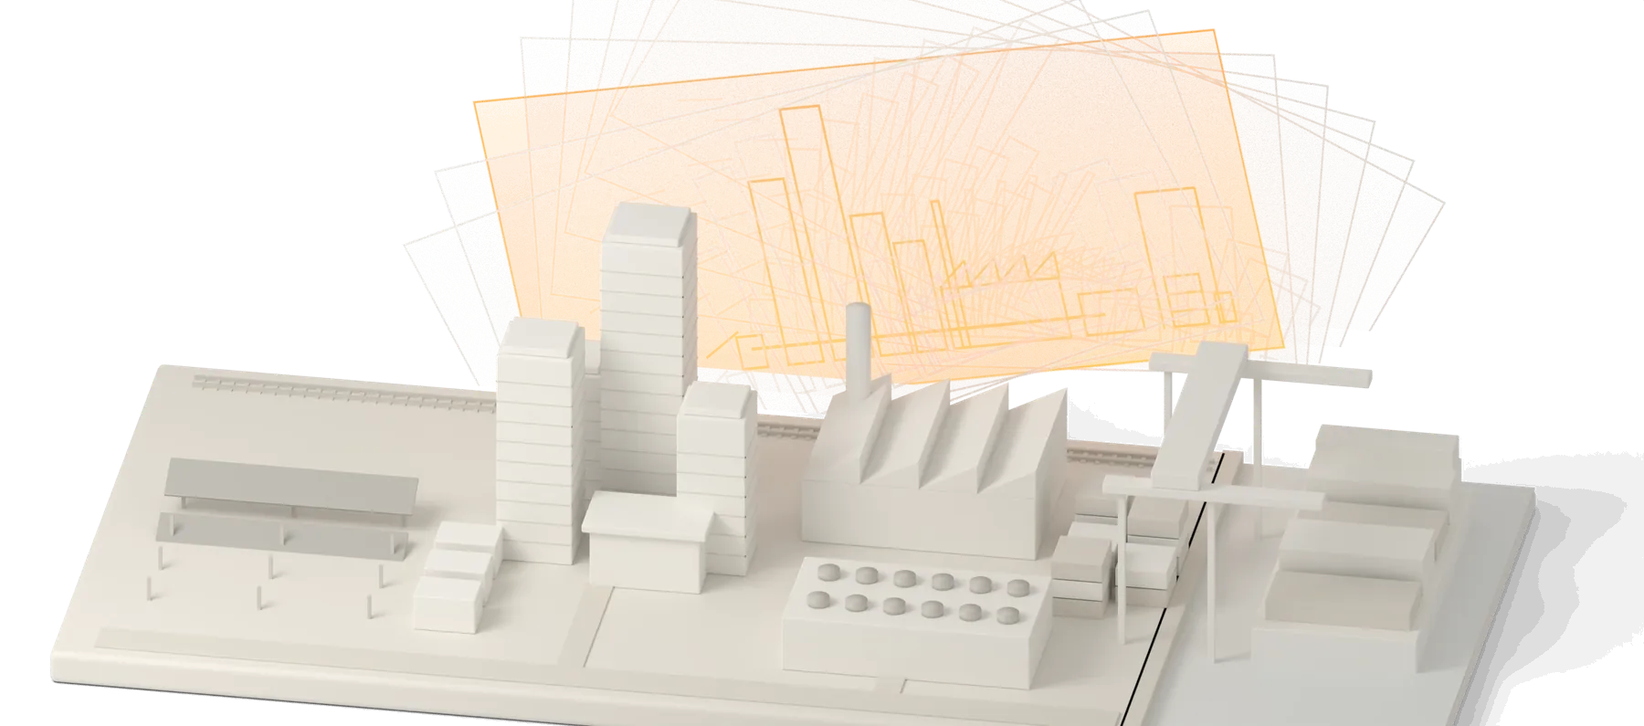
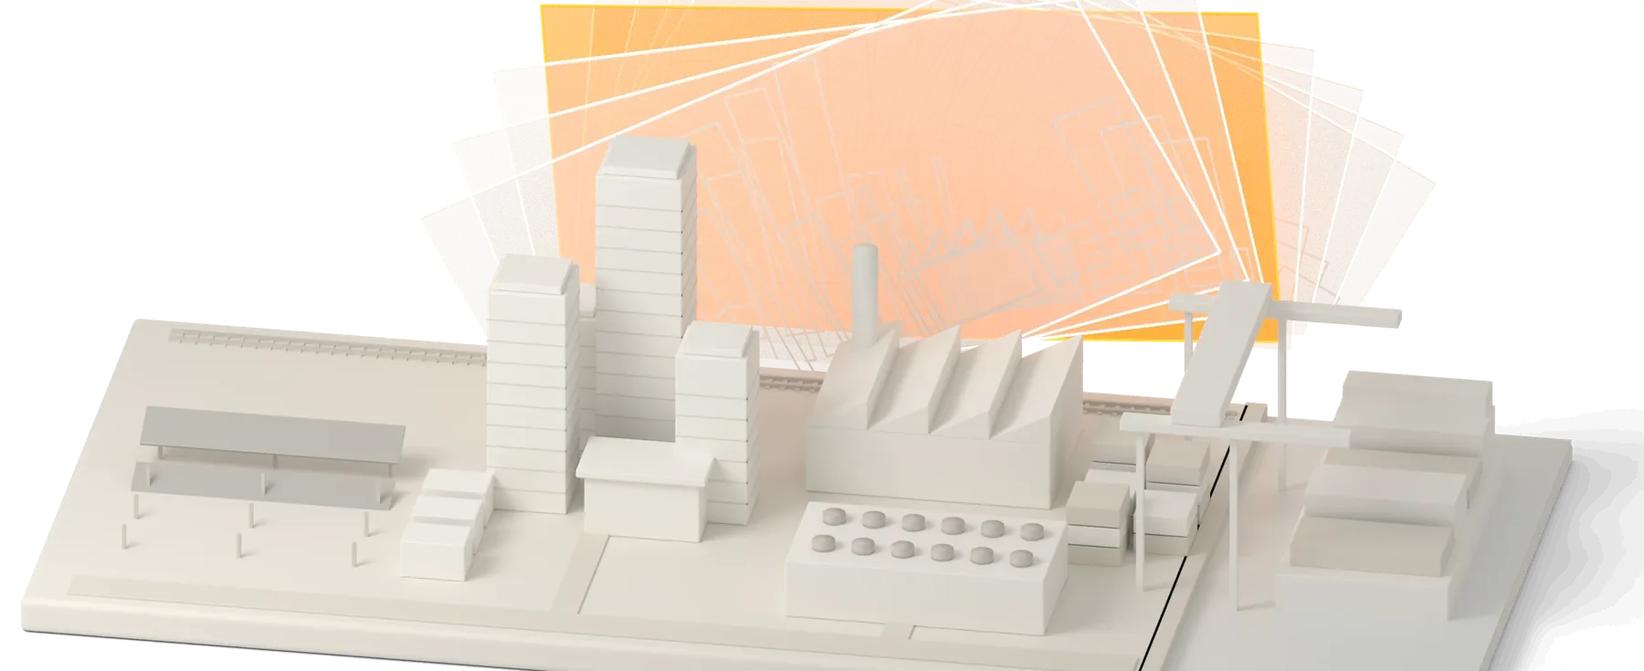
Refinements v2.1: legible futures, one orange bar, a tidy network
The hero's futures now read. The slices are clearly frosted, at roughly
30–40% with lit edges, and are etched with the world in grey. The lit
future is an upright card in the middle of the deck, warm and
unmistakable at rest. The fan is lower and sits behind the model, below
the buttons, and the hero still fits 1440×900 and 1512×788.

Only the console keeps the orange title bar. The mission, trust and
manifesto windows have a hairline top edge with ■■. The chips centre
over centred headlines.

The network is redrawn. Partner banks sit evenly on one arc with
straight radial lines, and every label clears the edges. In Discovery
the fund grows and turns warm, two banks shrink with their old size
ghosted, one bank grows, and a new lit route appears. The rail carries
the two numbers in Futures and the policy in Discovery.

The domain cards share rows through subgrid, so the question lists and
bottom rules align, and the Reserves route is raised and lit like the
others. Compare shows two etched futures, one brighter. The band above
the footer is halved.

Claude-Session: https://claude.ai/code/session_01KJTweMhfZWuWexSYwMJPUu

diff --git a/index.html b/index.html
@@ -71,7 +71,7 @@
         <div class="deck__stage" data-deck-stage>
           <picture class="deck__still">
             <source media="(max-width: 759px)" srcset="/deck-rest-narrow.webp" />
-            <img src="/deck-rest-wide.webp" width="2400" height="1060" alt="" decoding="async" fetchpriority="high" />
+            <img src="/deck-rest-wide.webp" width="2400" height="980" alt="" decoding="async" fetchpriority="high" />
           </picture>
           <canvas class="deck__fx" aria-hidden="true"></canvas>
         </div>
@@ -148,20 +148,22 @@
                     <p class="cons__line" data-line="model">Every account, route and partner, and the hours each one keeps.</p>
                     <p class="cons__line" data-line="futures" hidden>A year and a half of real days, replayed in minutes, and the year ahead.</p>
                     <p class="cons__line" data-line="discovery" hidden>The placement that keeps every promise with the least cash idle.</p>
+                    <p class="cons__nums" data-line="futures" hidden><span><b>99.7% → 100%</b>Promises kept</span><span><b>−$1.7B</b>Cash idle</span></p>
+                    <p class="cons__prop" data-line="discovery" hidden>Hold cash where redemptions arrive, by the hour of the week, and keep the rest in the fund.</p>
                   </div>
                   <div class="cons__pane" id="st-pane" role="tabpanel" aria-labelledby="st-model">
                     <p class="cons__scen" data-only="futures" hidden><button type="button" class="is-on" data-scen="typical">Typical week</button><button type="button" data-scen="weekends">Weekends</button><button type="button" data-scen="partner">A partner doubles</button><button type="button" data-scen="rates">Rates fall</button></p>
                     <div class="cons__map">
-                      <svg class="nw" viewBox="0 0 820 500" role="img" aria-label="The network behind a digital dollar: the issuer at the center; a money-market fund, a custodian, overnight repo and a ring of partner banks on the reserve side, four of them open at any hour; exchanges, wallets, payment networks and fintech apps on the distribution side; holders below."><g class="nw-holders"><circle cx="668.0" cy="458.1" r="1.77"/><circle cx="779.9" cy="452.3" r="1.91"/><circle cx="460.2" cy="450.2" r="1.94"/><circle cx="677.1" cy="468.1" r="1.02"/><circle cx="614.2" cy="428.1" r="1.50"/><circle cx="650.9" cy="410.8" r="1.14"/><circle cx="547.8" cy="475.6" r="1.74"/><circle cx="505.9" cy="469.8" r="1.05"/><circle cx="666.1" cy="417.6" r="0.90"/><circle cx="755.0" cy="418.6" r="1.14"/><circle cx="793.8" cy="460.4" r="1.22"/><circle cx="786.5" cy="438.8" r="1.65"/><circle cx="521.7" cy="478.5" r="1.66"/><circle cx="788.3" cy="462.1" r="1.23"/><circle cx="576.4" cy="424.6" r="1.06"/><circle cx="472.8" cy="438.7" r="1.56"/><circle cx="451.2" cy="464.7" r="1.27"/><circle cx="558.5" cy="468.6" r="1.43"/><circle cx="560.5" cy="446.2" r="1.68"/><circle cx="470.0" cy="483.4" r="0.93"/><circle cx="712.4" cy="462.6" r="0.92"/><circle cx="725.7" cy="430.4" r="1.54"/><circle cx="453.2" cy="422.9" r="1.10"/><circle cx="784.3" cy="416.3" r="1.73"/><circle cx="775.4" cy="465.9" r="1.28"/><circle cx="574.2" cy="448.4" r="1.75"/><circle cx="487.8" cy="467.5" r="1.78"/><circle cx="750.9" cy="407.4" r="1.94"/><circle cx="481.9" cy="440.9" r="1.57"/><circle cx="771.3" cy="426.4" r="1.92"/><circle cx="640.8" cy="431.1" r="1.25"/><circle cx="512.1" cy="422.1" r="1.06"/><circle cx="691.2" cy="473.7" r="1.08"/><circle cx="467.0" cy="484.3" r="1.49"/><circle cx="592.1" cy="428.6" r="1.55"/><circle cx="739.2" cy="435.6" r="1.36"/><circle cx="469.5" cy="479.5" r="0.94"/><circle cx="622.7" cy="466.7" r="1.04"/><circle cx="706.1" cy="469.9" r="1.59"/><circle cx="725.8" cy="413.2" r="1.38"/><circle cx="502.2" cy="473.1" r="1.22"/><circle cx="608.6" cy="478.0" r="1.84"/><circle cx="791.6" cy="432.9" r="1.44"/><circle cx="705.3" cy="438.9" r="1.22"/><circle cx="591.3" cy="422.6" r="1.31"/><circle cx="795.9" cy="466.1" r="1.59"/><circle cx="624.8" cy="433.6" r="1.00"/><circle cx="545.3" cy="466.8" r="1.85"/><circle cx="576.5" cy="465.6" r="1.75"/><circle cx="693.1" cy="451.7" r="1.74"/><circle cx="577.2" cy="460.1" r="1.21"/><circle cx="620.0" cy="462.3" r="1.66"/><circle cx="552.8" cy="477.3" r="1.61"/><circle cx="653.2" cy="410.6" r="1.50"/><circle cx="537.7" cy="459.9" r="1.41"/><circle cx="735.8" cy="448.4" r="1.78"/><circle cx="571.8" cy="456.4" r="1.71"/><circle cx="739.9" cy="428.6" r="1.83"/><circle cx="754.5" cy="450.2" r="1.97"/><circle cx="784.8" cy="437.5" r="1.48"/><circle cx="508.2" cy="472.3" r="1.93"/><circle cx="617.0" cy="457.3" r="1.69"/><circle cx="705.6" cy="418.6" r="1.76"/><circle cx="653.3" cy="453.8" r="1.36"/><circle cx="668.3" cy="460.2" r="1.60"/><circle cx="702.1" cy="409.2" r="1.08"/><circle cx="604.4" cy="455.2" r="1.14"/><circle cx="690.1" cy="449.6" r="0.95"/><circle cx="615.1" cy="426.7" r="0.96"/><circle cx="496.7" cy="438.6" r="1.10"/><circle cx="517.7" cy="419.0" r="1.41"/><circle cx="583.1" cy="453.7" r="1.55"/><circle cx="533.2" cy="475.4" r="0.90"/><circle cx="591.9" cy="431.3" r="1.35"/><circle cx="490.3" cy="472.9" r="1.31"/><circle cx="462.6" cy="459.9" r="1.00"/><circle cx="640.8" cy="432.9" r="1.54"/><circle cx="785.4" cy="457.3" r="1.36"/><circle cx="734.5" cy="448.2" r="1.31"/><circle cx="499.7" cy="456.8" r="1.52"/><circle cx="785.0" cy="467.1" r="1.57"/><circle cx="572.9" cy="472.8" r="0.90"/><circle cx="487.8" cy="455.5" r="1.58"/><circle cx="499.2" cy="459.1" r="1.88"/><circle cx="581.5" cy="441.9" r="1.15"/><circle cx="552.0" cy="479.1" r="1.32"/><circle cx="786.4" cy="463.5" r="1.56"/><circle cx="540.9" cy="480.2" r="1.45"/><circle cx="595.4" cy="433.8" r="1.98"/><circle cx="622.1" cy="430.3" r="1.42"/><circle cx="492.7" cy="458.9" r="1.39"/><circle cx="552.6" cy="466.5" r="1.81"/><circle cx="454.6" cy="454.9" r="1.20"/><circle cx="777.3" cy="455.2" r="1.17"/><circle cx="543.7" cy="425.5" r="1.99"/><circle cx="552.6" cy="455.0" r="1.42"/><circle cx="675.7" cy="448.6" r="1.72"/><circle cx="491.4" cy="468.1" r="1.23"/><circle cx="636.7" cy="432.8" r="1.23"/><circle cx="635.5" cy="441.4" r="1.30"/><circle cx="710.8" cy="446.0" r="0.94"/><circle cx="538.3" cy="445.7" r="1.91"/><circle cx="760.8" cy="440.5" r="0.92"/><circle cx="722.4" cy="434.6" r="1.53"/><circle cx="697.9" cy="449.3" r="1.43"/><circle cx="769.1" cy="429.5" r="1.33"/><circle cx="748.2" cy="418.1" r="1.23"/><circle cx="740.5" cy="409.8" r="1.82"/><circle cx="693.1" cy="436.4" r="1.21"/><circle cx="723.3" cy="466.4" r="1.06"/><circle cx="617.4" cy="447.9" r="1.45"/><circle cx="565.8" cy="424.3" r="1.54"/><circle cx="734.1" cy="410.3" r="1.15"/><circle cx="736.9" cy="457.9" r="1.63"/><circle cx="458.9" cy="467.2" r="1.98"/><circle cx="799.4" cy="448.8" r="0.95"/><circle cx="744.7" cy="419.7" r="1.61"/><circle cx="783.3" cy="450.4" r="1.05"/><circle cx="552.4" cy="475.5" r="1.06"/><circle cx="663.7" cy="436.6" r="1.08"/><circle cx="667.8" cy="412.0" r="1.02"/><circle cx="582.7" cy="418.1" r="0.96"/><circle cx="651.3" cy="458.9" r="1.87"/><circle cx="497.0" cy="446.1" r="1.25"/><circle cx="660.1" cy="441.8" r="1.93"/><circle cx="581.0" cy="417.1" r="1.67"/><circle cx="502.9" cy="459.0" r="1.46"/><circle cx="768.6" cy="440.7" r="1.58"/><circle cx="542.1" cy="451.8" r="1.18"/><circle cx="712.7" cy="441.0" r="1.05"/><circle cx="532.0" cy="440.4" r="1.71"/><circle cx="512.8" cy="463.9" r="1.62"/><circle cx="479.8" cy="462.6" r="1.00"/><circle cx="493.7" cy="457.0" r="1.16"/><circle cx="756.9" cy="436.4" r="1.26"/><circle cx="728.8" cy="408.0" r="1.70"/><circle cx="468.8" cy="429.0" r="1.95"/><circle cx="688.4" cy="422.8" r="1.03"/><circle cx="790.4" cy="446.9" r="1.80"/><circle cx="498.9" cy="458.8" r="1.29"/><circle cx="532.3" cy="437.9" r="1.58"/><circle cx="572.0" cy="439.4" r="1.05"/><circle cx="740.9" cy="448.2" r="1.78"/><circle cx="601.7" cy="468.6" r="1.47"/><circle cx="657.4" cy="447.5" r="1.71"/><circle cx="588.4" cy="419.5" r="0.94"/><circle cx="520.8" cy="419.1" r="1.88"/><circle cx="618.3" cy="461.8" r="0.90"/><circle cx="614.6" cy="470.5" r="1.58"/><circle cx="600.0" cy="443.2" r="1.01"/><circle cx="504.1" cy="427.8" r="1.31"/><circle cx="585.0" cy="471.4" r="1.07"/><circle cx="538.9" cy="433.9" r="1.08"/><circle cx="550.5" cy="430.5" r="1.43"/><circle cx="461.2" cy="480.5" r="1.31"/><circle cx="778.3" cy="449.0" r="1.64"/><circle cx="615.1" cy="474.1" r="1.03"/><circle cx="684.0" cy="427.5" r="1.64"/><circle cx="705.3" cy="418.0" r="1.12"/><circle cx="458.7" cy="434.8" r="0.99"/><circle cx="590.4" cy="477.2" r="1.30"/><circle cx="559.1" cy="445.4" r="1.21"/><circle cx="706.3" cy="454.6" r="1.08"/><circle cx="534.2" cy="460.2" r="1.93"/><circle cx="676.1" cy="437.1" r="1.97"/><circle cx="452.2" cy="423.9" r="1.76"/><circle cx="593.6" cy="415.8" r="1.50"/><circle cx="796.4" cy="436.9" r="1.29"/><circle cx="482.8" cy="423.1" r="1.89"/><circle cx="621.9" cy="473.2" r="0.96"/><circle cx="535.2" cy="419.1" r="1.34"/><circle cx="471.0" cy="435.8" r="1.35"/><circle cx="557.1" cy="418.0" r="0.94"/><circle cx="790.1" cy="414.8" r="1.46"/><circle cx="590.8" cy="448.0" r="0.99"/><circle cx="559.9" cy="421.6" r="1.50"/><circle cx="772.5" cy="443.4" r="1.84"/><circle cx="525.0" cy="417.4" r="1.49"/><circle cx="620.3" cy="449.2" r="1.31"/><circle cx="668.8" cy="457.0" r="1.90"/><circle cx="557.7" cy="444.3" r="1.81"/><circle cx="528.4" cy="423.7" r="1.24"/><circle cx="480.7" cy="469.4" r="1.80"/><circle cx="559.5" cy="423.1" r="0.99"/><circle cx="535.7" cy="421.3" r="1.37"/><circle cx="651.9" cy="426.1" r="0.97"/><circle cx="695.2" cy="410.9" r="1.12"/><circle cx="550.1" cy="439.7" r="1.01"/><circle cx="597.2" cy="433.4" r="1.73"/><circle cx="644.6" cy="469.4" r="1.62"/><circle cx="715.9" cy="444.6" r="1.39"/><circle cx="735.9" cy="449.0" r="1.95"/><circle cx="704.8" cy="453.5" r="1.19"/><circle cx="734.2" cy="431.0" r="1.04"/><circle cx="473.1" cy="430.0" r="1.19"/><circle cx="686.6" cy="427.0" r="0.97"/><circle cx="717.3" cy="443.4" r="0.93"/><circle cx="467.7" cy="427.7" r="1.29"/><circle cx="750.9" cy="467.6" r="1.57"/><circle cx="530.9" cy="444.3" r="1.30"/><circle cx="565.6" cy="415.0" r="1.54"/><circle cx="739.4" cy="453.5" r="1.00"/><circle cx="635.6" cy="422.0" r="1.68"/><circle cx="606.2" cy="474.1" r="1.77"/><circle cx="491.4" cy="438.9" r="1.91"/><circle cx="611.3" cy="440.6" r="1.39"/><circle cx="718.6" cy="468.4" r="1.49"/><circle cx="789.4" cy="442.4" r="1.01"/><circle cx="735.0" cy="433.4" r="0.96"/><circle cx="792.3" cy="405.1" r="1.53"/><circle cx="618.7" cy="469.8" r="1.33"/><circle cx="525.5" cy="434.5" r="1.12"/><circle cx="646.9" cy="433.7" r="1.73"/><circle cx="534.5" cy="439.0" r="1.17"/><circle cx="793.8" cy="458.3" r="1.83"/><circle cx="666.4" cy="435.6" r="1.06"/><circle cx="741.1" cy="437.8" r="0.94"/><circle cx="509.3" cy="423.5" r="1.69"/><circle cx="765.1" cy="417.4" r="1.78"/><circle cx="563.4" cy="459.4" r="1.85"/><circle cx="668.1" cy="461.9" r="1.31"/><circle cx="453.5" cy="453.6" r="1.55"/><circle cx="514.7" cy="442.4" r="1.25"/><circle cx="459.5" cy="440.1" r="1.32"/><circle cx="616.6" cy="458.1" r="1.34"/><circle cx="793.8" cy="456.6" r="1.92"/><circle cx="692.5" cy="452.1" r="1.49"/><circle cx="729.5" cy="430.0" r="1.55"/><circle cx="687.8" cy="442.6" r="1.21"/><circle cx="477.2" cy="424.4" r="1.29"/><circle cx="653.1" cy="460.0" r="1.69"/><circle cx="557.4" cy="476.0" r="1.20"/><circle cx="700.6" cy="412.2" r="1.73"/><circle cx="684.5" cy="471.4" r="1.89"/><circle cx="690.7" cy="463.3" r="1.71"/><circle cx="663.8" cy="423.1" r="1.47"/><circle cx="763.6" cy="420.1" r="1.97"/><circle cx="640.4" cy="436.4" r="0.90"/><circle cx="586.6" cy="424.9" r="1.62"/><circle cx="764.8" cy="464.3" r="1.57"/></g><g class="nw-edges"><path class="nw-e nw-e--rail" data-e="fc" d="M150.0 150.0Q198.0 98.8 262.0 70.0"/><path class="nw-e nw-e--rail" data-e="ci" d="M262.0 70.0Q353.4 124.7 410.0 215.0"/><path class="nw-e nw-e--rail" data-e="ri" d="M280.0 312.0Q354.7 276.5 410.0 215.0"/><path class="nw-e nw-e--rail" data-e="fr" d="M150.0 150.0Q195.6 246.6 280.0 312.0"/><path class="nw-e nw-e--rt" data-e="b1" d="M191.0 301.0Q309.1 279.9 410.0 215.0"/><path class="nw-e nw-e--rt" data-e="b2" d="M229.2 350.8Q333.2 301.0 410.0 215.0"/><path class="nw-e nw-e--rt" data-e="b3" d="M221.0 413.0Q335.3 332.9 410.0 215.0"/><path class="nw-e nw-e--rt" data-e="b4" d="M171.2 451.2Q314.2 357.0 410.0 215.0"/><path class="nw-e nw-e--rail" data-e="b5" d="M109.0 443.0Q282.3 359.1 410.0 215.0"/><path class="nw-e nw-e--rail" data-e="b6" d="M70.8 393.2Q258.2 338.0 410.0 215.0"/><path class="nw-e nw-e--rail" data-e="b7" d="M79.0 331.0Q256.1 306.1 410.0 215.0"/><path class="nw-e nw-e--rail" data-e="b8" d="M128.8 292.8Q277.2 282.0 410.0 215.0"/><path class="nw-e nw-e--rt nw-e--new" data-e="b9" d="M260.6 320.4Q345.8 282.7 410.0 215.0"/><path class="nw-e nw-e--chain" data-e="exch" d="M410.0 215.0Q542.6 191.3 650.0 110.0"/><path class="nw-e nw-e--chain" data-e="wallets" d="M410.0 215.0Q559.4 257.7 712.0 228.0"/><path class="nw-e nw-e--chain" data-e="nets" d="M410.0 215.0Q518.1 304.4 655.0 335.0"/><path class="nw-e nw-e--chain" data-e="apps" d="M410.0 215.0Q497.8 153.1 548.0 58.0"/><path class="nw-e nw-e--chain" data-e="h-nets" d="M655.0 335.0Q616.1 375.9 600.0 430.0"/><path class="nw-e nw-e--chain" data-e="h-wallets" d="M712.0 228.0Q692.4 327.5 720.0 425.0"/><path class="nw-e nw-e--chain" data-e="h-exch" d="M650.0 110.0Q546.8 253.4 520.0 428.0"/></g><g class="nw-pulses" data-pulses></g><g class="nw-nodes"><g class="nw-n nw-n--ink" data-n="issuer"><circle class="nw-ring" cx="410.0" cy="215.0" r="21.0"/><circle class="nw-c" cx="410.0" cy="215.0" r="15.0" style="--r:15.0px"/><text class="nw-l" x="433" y="219">Issuer</text></g><g class="nw-n nw-n--cash" data-n="fund"><circle class="nw-ring" cx="150.0" cy="150.0" r="52.0"/><circle class="nw-c" cx="150.0" cy="150.0" r="46.0" style="--r:46.0px"/><text class="nw-l" x="150" y="214" text-anchor="middle">Money-market fund</text></g><g class="nw-n nw-n--cash" data-n="custodian"><circle class="nw-ring" cx="262.0" cy="70.0" r="14.0"/><circle class="nw-c" cx="262.0" cy="70.0" r="8.0" style="--r:8.0px"/><text class="nw-l" x="278" y="74">Custodian</text></g><g class="nw-n nw-n--cash" data-n="repo"><circle class="nw-ring" cx="280.0" cy="312.0" r="19.0"/><circle class="nw-c" cx="280.0" cy="312.0" r="13.0" style="--r:13.0px"/><text class="nw-l" x="301" y="316">Overnight repo</text></g><g class="nw-n nw-n--dist" data-n="exch"><circle class="nw-ring" cx="650.0" cy="110.0" r="28.0"/><circle class="nw-c" cx="650.0" cy="110.0" r="22.0" style="--r:22.0px"/><text class="nw-l" x="680" y="114">Exchanges</text></g><g class="nw-n nw-n--dist" data-n="wallets"><circle class="nw-ring" cx="712.0" cy="228.0" r="23.0"/><circle class="nw-c" cx="712.0" cy="228.0" r="17.0" style="--r:17.0px"/><text class="nw-l" x="737" y="232">Wallets</text></g><g class="nw-n nw-n--dist" data-n="nets"><circle class="nw-ring" cx="655.0" cy="335.0" r="26.0"/><circle class="nw-c" cx="655.0" cy="335.0" r="20.0" style="--r:20.0px"/><text class="nw-l" x="683" y="339">Payment networks</text></g><g class="nw-n nw-n--dist" data-n="apps"><circle class="nw-ring" cx="548.0" cy="58.0" r="19.0"/><circle class="nw-c" cx="548.0" cy="58.0" r="13.0" style="--r:13.0px"/><text class="nw-l" x="569" y="62">Fintech apps</text></g><g class="nw-n nw-n--bank nw-n--lit" data-n="b1"><circle class="nw-ring" cx="191.0" cy="301.0" r="17.0"/><circle class="nw-c" cx="191.0" cy="301.0" r="11.0" style="--r:11.0px"/></g><g class="nw-n nw-n--bank nw-n--lit" data-n="b2"><circle class="nw-ring" cx="229.2" cy="350.8" r="16.0"/><circle class="nw-c" cx="229.2" cy="350.8" r="10.0" style="--r:10.0px"/></g><g class="nw-n nw-n--bank nw-n--lit" data-n="b3"><circle class="nw-ring" cx="221.0" cy="413.0" r="15.0"/><circle class="nw-c" cx="221.0" cy="413.0" r="9.0" style="--r:9.0px"/></g><g class="nw-n nw-n--bank nw-n--lit" data-n="b4"><circle class="nw-ring" cx="171.2" cy="451.2" r="15.0"/><circle class="nw-c" cx="171.2" cy="451.2" r="9.0" style="--r:9.0px"/></g><g class="nw-n nw-n--bank" data-n="b5"><circle class="nw-ring" cx="109.0" cy="443.0" r="14.0"/><circle class="nw-c" cx="109.0" cy="443.0" r="7.0" style="--r:7.0px"/></g><g class="nw-n nw-n--bank" data-n="b6"><circle class="nw-ring" cx="70.8" cy="393.2" r="14.0"/><circle class="nw-c" cx="70.8" cy="393.2" r="6.0" style="--r:6.0px"/></g><g class="nw-n nw-n--bank" data-n="b7"><circle class="nw-ring" cx="79.0" cy="331.0" r="14.0"/><circle class="nw-c" cx="79.0" cy="331.0" r="6.0" style="--r:6.0px"/></g><g class="nw-n nw-n--bank" data-n="b8"><circle class="nw-ring" cx="128.8" cy="292.8" r="14.0"/><circle class="nw-c" cx="128.8" cy="292.8" r="7.0" style="--r:7.0px"/></g><g class="nw-n nw-n--bank nw-n--lit nw-n--new" data-n="b9"><circle class="nw-ring" cx="260.6" cy="320.4" r="14.0"/><circle class="nw-c" cx="260.6" cy="320.4" r="0.0" style="--r:0.0px"/></g><text class="nw-l" x="150" y="376" text-anchor="middle">Partner banks</text></g></svg>
+                      <svg class="nw" viewBox="0 0 820 500" role="img" aria-label="The network behind a digital dollar: the issuer at the center; a money-market fund, a custodian and overnight repo on the reserve side; an arc of partner banks below, four of them open at any hour; exchanges, wallets, payment networks and fintech apps on the distribution side; holders below."><g class="nw-holders"><circle cx="683.1" cy="464.8" r="1.77"/><circle cx="782.2" cy="460.7" r="1.91"/><circle cx="499.0" cy="455.6" r="1.94"/><circle cx="691.2" cy="474.0" r="1.02"/><circle cx="635.4" cy="437.0" r="1.50"/><circle cx="667.9" cy="421.7" r="1.14"/><circle cx="576.6" cy="479.5" r="1.74"/><circle cx="539.5" cy="473.8" r="1.05"/><circle cx="681.4" cy="427.9" r="0.90"/><circle cx="760.1" cy="429.8" r="1.14"/><circle cx="794.6" cy="468.2" r="1.22"/><circle cx="788.1" cy="448.4" r="1.65"/><circle cx="553.5" cy="481.9" r="1.66"/><circle cx="789.6" cy="469.6" r="1.23"/><circle cx="602.0" cy="433.5" r="1.06"/><circle cx="510.2" cy="445.3" r="1.56"/><circle cx="491.0" cy="468.6" r="1.27"/><circle cx="586.1" cy="473.3" r="1.43"/><circle cx="587.9" cy="453.0" r="1.68"/><circle cx="507.7" cy="485.8" r="0.93"/><circle cx="722.4" cy="469.4" r="0.92"/><circle cx="734.2" cy="440.2" r="1.54"/><circle cx="492.8" cy="430.7" r="1.10"/><circle cx="786.1" cy="427.9" r="1.73"/><circle cx="778.2" cy="473.0" r="1.28"/><circle cx="600.0" cy="455.1" r="1.75"/><circle cx="523.5" cy="471.6" r="1.78"/><circle cx="756.5" cy="419.5" r="1.94"/><circle cx="518.3" cy="447.3" r="1.57"/><circle cx="774.6" cy="437.0" r="1.92"/><circle cx="659.0" cy="440.0" r="1.25"/><circle cx="545.0" cy="430.5" r="1.06"/><circle cx="703.6" cy="479.3" r="1.08"/><circle cx="505.1" cy="486.6" r="1.49"/><circle cx="615.8" cy="437.2" r="1.55"/><circle cx="746.2" cy="445.1" r="1.36"/><circle cx="507.3" cy="482.3" r="0.94"/><circle cx="643.0" cy="472.2" r="1.04"/><circle cx="716.8" cy="475.9" r="1.59"/><circle cx="734.3" cy="424.6" r="1.38"/><circle cx="536.3" cy="476.8" r="1.22"/><circle cx="630.5" cy="482.3" r="1.84"/><circle cx="792.6" cy="443.1" r="1.44"/><circle cx="716.1" cy="447.7" r="1.22"/><circle cx="615.2" cy="431.8" r="1.31"/><circle cx="796.4" cy="473.3" r="1.59"/><circle cx="644.8" cy="442.1" r="1.00"/><circle cx="574.4" cy="471.5" r="1.85"/><circle cx="602.0" cy="470.7" r="1.75"/><circle cx="705.3" cy="459.2" r="1.74"/><circle cx="602.7" cy="465.8" r="1.21"/><circle cx="640.6" cy="468.2" r="1.66"/><circle cx="581.1" cy="481.1" r="1.61"/><circle cx="670.0" cy="421.5" r="1.50"/><circle cx="567.7" cy="465.2" r="1.41"/><circle cx="743.2" cy="456.7" r="1.78"/><circle cx="597.8" cy="462.3" r="1.71"/><circle cx="746.7" cy="438.7" r="1.83"/><circle cx="759.7" cy="458.5" r="1.97"/><circle cx="786.5" cy="447.2" r="1.48"/><circle cx="541.5" cy="476.1" r="1.93"/><circle cx="637.9" cy="463.6" r="1.69"/><circle cx="716.4" cy="429.3" r="1.76"/><circle cx="670.1" cy="460.7" r="1.36"/><circle cx="683.4" cy="466.7" r="1.60"/><circle cx="713.3" cy="420.7" r="1.08"/><circle cx="626.7" cy="461.5" r="1.14"/><circle cx="702.6" cy="457.3" r="0.95"/><circle cx="636.2" cy="435.7" r="0.96"/><circle cx="531.4" cy="445.4" r="1.10"/><circle cx="549.9" cy="427.7" r="1.41"/><circle cx="607.9" cy="460.0" r="1.55"/><circle cx="563.7" cy="479.2" r="0.90"/><circle cx="615.7" cy="439.7" r="1.35"/><circle cx="525.7" cy="476.5" r="1.31"/><circle cx="501.2" cy="464.4" r="1.00"/><circle cx="659.0" cy="441.6" r="1.54"/><circle cx="787.1" cy="465.2" r="1.36"/><circle cx="742.0" cy="456.5" r="1.31"/><circle cx="534.1" cy="462.0" r="1.52"/><circle cx="786.7" cy="474.2" r="1.57"/><circle cx="598.8" cy="477.3" r="0.90"/><circle cx="523.5" cy="460.6" r="1.58"/><circle cx="533.6" cy="464.0" r="1.88"/><circle cx="606.5" cy="449.2" r="1.15"/><circle cx="580.4" cy="482.7" r="1.32"/><circle cx="788.0" cy="470.9" r="1.56"/><circle cx="570.5" cy="483.6" r="1.45"/><circle cx="618.8" cy="442.0" r="1.98"/><circle cx="642.4" cy="439.1" r="1.42"/><circle cx="527.8" cy="463.8" r="1.39"/><circle cx="580.9" cy="471.3" r="1.81"/><circle cx="494.1" cy="459.8" r="1.20"/><circle cx="779.9" cy="463.3" r="1.17"/><circle cx="573.0" cy="434.0" r="1.99"/><circle cx="580.9" cy="460.8" r="1.42"/><circle cx="689.9" cy="456.2" r="1.72"/><circle cx="526.6" cy="472.2" r="1.23"/><circle cx="655.4" cy="441.6" r="1.23"/><circle cx="654.3" cy="449.3" r="1.30"/><circle cx="721.0" cy="454.2" r="0.94"/><circle cx="568.3" cy="452.2" r="1.91"/><circle cx="765.3" cy="449.7" r="0.92"/><circle cx="731.3" cy="444.0" r="1.53"/><circle cx="709.5" cy="457.2" r="1.43"/><circle cx="772.6" cy="439.8" r="1.33"/><circle cx="754.1" cy="429.2" r="1.23"/><circle cx="747.3" cy="421.7" r="1.82"/><circle cx="705.3" cy="445.4" r="1.21"/><circle cx="732.0" cy="473.0" r="1.06"/><circle cx="638.3" cy="455.0" r="1.45"/><circle cx="592.5" cy="433.1" r="1.54"/><circle cx="741.7" cy="422.0" r="1.15"/><circle cx="744.1" cy="465.3" r="1.63"/><circle cx="497.9" cy="471.0" r="1.98"/><circle cx="799.5" cy="457.7" r="0.95"/><circle cx="751.0" cy="430.7" r="1.61"/><circle cx="785.2" cy="458.9" r="1.05"/><circle cx="580.7" cy="479.5" r="1.06"/><circle cx="679.3" cy="445.3" r="1.08"/><circle cx="682.9" cy="422.9" r="1.02"/><circle cx="607.6" cy="427.6" r="0.96"/><circle cx="668.3" cy="465.4" r="1.87"/><circle cx="531.6" cy="452.2" r="1.25"/><circle cx="676.1" cy="449.9" r="1.93"/><circle cx="606.0" cy="426.7" r="1.67"/><circle cx="536.8" cy="464.0" r="1.46"/><circle cx="772.2" cy="450.0" r="1.58"/><circle cx="571.6" cy="457.8" r="1.18"/><circle cx="722.7" cy="449.7" r="1.05"/><circle cx="562.7" cy="447.4" r="1.71"/><circle cx="545.6" cy="468.6" r="1.62"/><circle cx="516.4" cy="467.0" r="1.00"/><circle cx="528.7" cy="462.1" r="1.16"/><circle cx="761.8" cy="446.0" r="1.26"/><circle cx="736.9" cy="419.9" r="1.70"/><circle cx="506.6" cy="436.4" r="1.95"/><circle cx="701.1" cy="432.9" r="1.03"/><circle cx="791.5" cy="455.8" r="1.80"/><circle cx="533.3" cy="463.8" r="1.29"/><circle cx="562.9" cy="445.1" r="1.58"/><circle cx="598.1" cy="446.8" r="1.05"/><circle cx="747.6" cy="456.6" r="1.78"/><circle cx="624.4" cy="473.7" r="1.47"/><circle cx="673.7" cy="455.0" r="1.71"/><circle cx="612.6" cy="428.9" r="0.94"/><circle cx="552.7" cy="427.9" r="1.88"/><circle cx="639.1" cy="467.7" r="0.90"/><circle cx="635.8" cy="475.6" r="1.58"/><circle cx="622.9" cy="450.6" r="1.01"/><circle cx="537.9" cy="435.6" r="1.31"/><circle cx="609.6" cy="476.0" r="1.07"/><circle cx="568.8" cy="441.5" r="1.08"/><circle cx="579.0" cy="438.6" r="1.43"/><circle cx="499.9" cy="483.1" r="1.31"/><circle cx="780.8" cy="457.6" r="1.64"/><circle cx="636.2" cy="478.9" r="1.03"/><circle cx="697.3" cy="437.2" r="1.64"/><circle cx="716.1" cy="428.8" r="1.12"/><circle cx="497.7" cy="441.5" r="0.99"/><circle cx="614.3" cy="481.4" r="1.30"/><circle cx="586.7" cy="452.2" r="1.21"/><circle cx="717.0" cy="462.0" r="1.08"/><circle cx="564.6" cy="465.3" r="1.93"/><circle cx="690.2" cy="445.8" r="1.97"/><circle cx="491.9" cy="431.6" r="1.76"/><circle cx="617.2" cy="425.6" r="1.50"/><circle cx="796.8" cy="446.9" r="1.29"/><circle cx="519.1" cy="431.1" r="1.89"/><circle cx="642.3" cy="478.1" r="0.96"/><circle cx="565.5" cy="428.0" r="1.34"/><circle cx="508.6" cy="442.6" r="1.35"/><circle cx="584.8" cy="427.3" r="0.94"/><circle cx="791.2" cy="426.7" r="1.46"/><circle cx="614.7" cy="454.9" r="0.99"/><circle cx="587.3" cy="430.6" r="1.50"/><circle cx="775.6" cy="452.5" r="1.84"/><circle cx="556.5" cy="426.4" r="1.49"/><circle cx="640.8" cy="456.3" r="1.31"/><circle cx="683.8" cy="463.8" r="1.90"/><circle cx="585.4" cy="451.1" r="1.81"/><circle cx="559.4" cy="432.2" r="1.24"/><circle cx="517.2" cy="473.3" r="1.80"/><circle cx="587.0" cy="431.9" r="0.99"/><circle cx="565.9" cy="430.0" r="1.37"/><circle cx="668.9" cy="435.6" r="0.97"/><circle cx="707.2" cy="422.2" r="1.12"/><circle cx="578.7" cy="446.9" r="1.01"/><circle cx="620.4" cy="441.6" r="1.73"/><circle cx="662.4" cy="474.9" r="1.62"/><circle cx="725.5" cy="453.1" r="1.39"/><circle cx="743.2" cy="457.2" r="1.95"/><circle cx="715.7" cy="461.0" r="1.19"/><circle cx="741.7" cy="440.9" r="1.04"/><circle cx="510.4" cy="437.3" r="1.19"/><circle cx="699.5" cy="436.8" r="0.97"/><circle cx="726.8" cy="452.0" r="0.93"/><circle cx="505.7" cy="435.2" r="1.29"/><circle cx="756.5" cy="474.3" r="1.57"/><circle cx="561.6" cy="450.9" r="1.30"/><circle cx="592.4" cy="424.7" r="1.54"/><circle cx="746.3" cy="461.4" r="1.00"/><circle cx="654.4" cy="431.7" r="1.68"/><circle cx="628.3" cy="478.8" r="1.77"/><circle cx="526.6" cy="445.6" r="1.91"/><circle cx="632.9" cy="448.3" r="1.39"/><circle cx="727.9" cy="474.7" r="1.49"/><circle cx="790.6" cy="451.7" r="1.01"/><circle cx="742.4" cy="443.1" r="0.96"/><circle cx="793.2" cy="417.8" r="1.53"/><circle cx="639.4" cy="474.9" r="1.33"/><circle cx="556.8" cy="441.9" r="1.12"/><circle cx="664.4" cy="442.4" r="1.73"/><circle cx="564.9" cy="446.1" r="1.17"/><circle cx="794.6" cy="466.2" r="1.83"/><circle cx="681.6" cy="444.4" r="1.06"/><circle cx="747.8" cy="447.1" r="0.94"/><circle cx="542.6" cy="431.8" r="1.69"/><circle cx="769.1" cy="428.8" r="1.78"/><circle cx="590.5" cy="465.0" r="1.85"/><circle cx="683.2" cy="468.3" r="1.31"/><circle cx="493.1" cy="458.6" r="1.55"/><circle cx="547.3" cy="449.1" r="1.25"/><circle cx="498.4" cy="446.4" r="1.32"/><circle cx="637.6" cy="464.3" r="1.34"/><circle cx="794.5" cy="464.8" r="1.92"/><circle cx="704.8" cy="459.6" r="1.49"/><circle cx="737.6" cy="439.9" r="1.55"/><circle cx="700.6" cy="450.9" r="1.21"/><circle cx="514.1" cy="432.3" r="1.29"/><circle cx="669.9" cy="466.4" r="1.69"/><circle cx="585.1" cy="479.9" r="1.20"/><circle cx="712.0" cy="423.4" r="1.73"/><circle cx="697.7" cy="477.1" r="1.89"/><circle cx="703.2" cy="469.8" r="1.71"/><circle cx="679.4" cy="432.9" r="1.47"/><circle cx="767.8" cy="431.2" r="1.97"/><circle cx="658.6" cy="444.9" r="0.90"/><circle cx="611.0" cy="433.8" r="1.62"/><circle cx="768.9" cy="471.5" r="1.57"/></g><g class="nw-edges"><path class="nw-e nw-e--rail" data-e="fc" d="M150.0 108.0Q230.3 71.6 318.0 62.0"/><path class="nw-e nw-e--rail" data-e="ci" d="M318.0 62.0Q387.6 138.0 430.0 232.0"/><path class="nw-e nw-e--rail" data-e="fr" d="M150.0 108.0Q204.2 163.2 270.0 204.0"/><path class="nw-e nw-e--rail" data-e="ri" d="M270.0 204.0L430.0 232.0"/><path class="nw-e nw-e--rt" data-e="b1" d="M391.5 450.6L430.0 232.0"/><path class="nw-e nw-e--rt" data-e="b2" d="M356.7 441.5L430.0 232.0"/><path class="nw-e nw-e--rt" data-e="b3" d="M323.8 427.0L430.0 232.0"/><path class="nw-e nw-e--rt" data-e="b4" d="M293.8 407.3L430.0 232.0"/><path class="nw-e nw-e--rail" data-e="b5" d="M267.3 383.0L430.0 232.0"/><path class="nw-e nw-e--rail" data-e="b6" d="M245.0 354.8L430.0 232.0"/><path class="nw-e nw-e--rail" data-e="b7" d="M227.6 323.3L430.0 232.0"/><path class="nw-e nw-e--rail" data-e="b8" d="M215.6 289.5L430.0 232.0"/><path class="nw-e nw-e--rt nw-e--new" data-e="b9" d="M445.5 453.5L430.0 232.0"/><path class="nw-e nw-e--chain" data-e="apps" d="M430.0 232.0Q508.6 152.2 566.0 56.0"/><path class="nw-e nw-e--chain" data-e="exch" d="M430.0 232.0Q553.4 183.9 662.0 108.0"/><path class="nw-e nw-e--chain" data-e="wallets" d="M430.0 232.0Q581.4 247.1 732.0 226.0"/><path class="nw-e nw-e--chain" data-e="nets" d="M430.0 232.0Q542.6 299.3 668.0 338.0"/><path class="nw-e nw-e--chain" data-e="h-nets" d="M668.0 338.0L640 436"/><path class="nw-e nw-e--chain" data-e="h-wallets" d="M732.0 226.0L752 430"/><path class="nw-e nw-e--chain" data-e="h-exch" d="M662.0 108.0L560 440"/></g><g class="nw-pulses" data-pulses></g><g class="nw-nodes"><g class="nw-n nw-n--ink" data-n="issuer"><circle class="nw-ring" cx="430.0" cy="232.0" r="21.0"/><circle class="nw-c" cx="430.0" cy="232.0" r="15.0" style="--r:15.0px"/><text class="nw-l" x="454" y="236">Issuer</text></g><g class="nw-n nw-n--cash" data-n="fund"><circle class="nw-ghost" cx="150.0" cy="108.0" r="44.0"/><circle class="nw-ring" cx="150.0" cy="108.0" r="50.0"/><circle class="nw-c" cx="150.0" cy="108.0" r="44.0" style="--r:44.0px"/><text class="nw-l" x="150" y="52" text-anchor="middle">Money-market fund</text></g><g class="nw-n nw-n--cash" data-n="custodian"><circle class="nw-ring" cx="318.0" cy="62.0" r="14.0"/><circle class="nw-c" cx="318.0" cy="62.0" r="8.0" style="--r:8.0px"/><text class="nw-l" x="335" y="66">Custodian</text></g><g class="nw-n nw-n--cash" data-n="repo"><circle class="nw-ring" cx="270.0" cy="204.0" r="18.0"/><circle class="nw-c" cx="270.0" cy="204.0" r="12.0" style="--r:12.0px"/><text class="nw-l" x="270" y="233" text-anchor="middle">Overnight repo</text></g><g class="nw-n nw-n--dist" data-n="apps"><circle class="nw-ring" cx="566.0" cy="56.0" r="19.0"/><circle class="nw-c" cx="566.0" cy="56.0" r="13.0" style="--r:13.0px"/><text class="nw-l" x="588" y="60">Fintech apps</text></g><g class="nw-n nw-n--dist" data-n="exch"><circle class="nw-ring" cx="662.0" cy="108.0" r="28.0"/><circle class="nw-c" cx="662.0" cy="108.0" r="22.0" style="--r:22.0px"/><text class="nw-l" x="693" y="112">Exchanges</text></g><g class="nw-n nw-n--dist" data-n="wallets"><circle class="nw-ring" cx="732.0" cy="226.0" r="23.0"/><circle class="nw-c" cx="732.0" cy="226.0" r="17.0" style="--r:17.0px"/><text class="nw-l" x="758" y="230">Wallets</text></g><g class="nw-n nw-n--dist" data-n="nets"><circle class="nw-ring" cx="668.0" cy="338.0" r="26.0"/><circle class="nw-c" cx="668.0" cy="338.0" r="20.0" style="--r:20.0px"/><text class="nw-l" x="697" y="342">Payment networks</text></g><g class="nw-n nw-n--bank nw-n--lit" data-n="b1"><circle class="nw-ghost" cx="391.5" cy="450.6" r="11.0"/><circle class="nw-ring" cx="391.5" cy="450.6" r="17.0"/><circle class="nw-c" cx="391.5" cy="450.6" r="11.0" style="--r:11.0px"/></g><g class="nw-n nw-n--bank nw-n--lit" data-n="b2"><circle class="nw-ring" cx="356.7" cy="441.5" r="16.0"/><circle class="nw-c" cx="356.7" cy="441.5" r="10.0" style="--r:10.0px"/></g><g class="nw-n nw-n--bank nw-n--lit" data-n="b3"><circle class="nw-ring" cx="323.8" cy="427.0" r="15.0"/><circle class="nw-c" cx="323.8" cy="427.0" r="9.0" style="--r:9.0px"/></g><g class="nw-n nw-n--bank nw-n--lit" data-n="b4"><circle class="nw-ring" cx="293.8" cy="407.3" r="15.0"/><circle class="nw-c" cx="293.8" cy="407.3" r="9.0" style="--r:9.0px"/></g><g class="nw-n nw-n--bank" data-n="b5"><circle class="nw-ring" cx="267.3" cy="383.0" r="14.0"/><circle class="nw-c" cx="267.3" cy="383.0" r="8.0" style="--r:8.0px"/></g><g class="nw-n nw-n--bank" data-n="b6"><circle class="nw-ring" cx="245.0" cy="354.8" r="14.0"/><circle class="nw-c" cx="245.0" cy="354.8" r="7.0" style="--r:7.0px"/></g><g class="nw-n nw-n--bank" data-n="b7"><circle class="nw-ghost" cx="227.6" cy="323.3" r="7.0"/><circle class="nw-ring" cx="227.6" cy="323.3" r="14.0"/><circle class="nw-c" cx="227.6" cy="323.3" r="7.0" style="--r:7.0px"/></g><g class="nw-n nw-n--bank" data-n="b8"><circle class="nw-ghost" cx="215.6" cy="289.5" r="8.0"/><circle class="nw-ring" cx="215.6" cy="289.5" r="14.0"/><circle class="nw-c" cx="215.6" cy="289.5" r="8.0" style="--r:8.0px"/></g><g class="nw-n nw-n--bank nw-n--lit nw-n--new" data-n="b9"><circle class="nw-ring" cx="445.5" cy="453.5" r="14.0"/><circle class="nw-c" cx="445.5" cy="453.5" r="0.0" style="--r:0.0px"/></g><text class="nw-l" x="259" y="422" text-anchor="end">Partner banks</text></g></svg>
                       <p class="cons__clock" data-only="futures" hidden aria-hidden="true"><span data-hour>Mon 09:00</span></p>
                     </div>
                     <div class="cons__replay" data-only="futures" hidden>
                       <button type="button" class="cons__play" data-play aria-label="Pause the replay"><i aria-hidden="true"></i></button>
                       <p class="cons__weeks" aria-hidden="true"><i></i><i></i><i></i><i></i><i></i><i></i><i></i><i></i><i></i><i></i><i></i><i></i><i></i><i></i><i></i><i></i><i></i><i></i><i></i><i></i><i></i><i></i><i></i><i></i><i></i><i></i><i></i><i></i><i></i><i></i><i></i><i></i><i></i><i></i><i></i><i></i><i></i><i></i><i></i><i></i><i></i><i></i><i></i><i></i><i></i><i></i><i></i><i></i><i></i><i></i><i></i><i></i><i></i><i></i><i></i><i></i><i></i><i></i><i></i><i></i><i></i><i></i><i></i><i></i><i></i><i></i><i></i><i></i><i></i><i></i><i></i><i></i><i></i><i></i><i></i><i></i><i></i><i></i></p>
-                      <p class="cons__nums"><span><b>99.7% → 100%</b>Promises kept</span><span><b>−$1.7B</b>Cash idle</span></p>
+                      
                     </div>
                     <div class="cons__found" data-only="discovery" hidden>
-                      <p class="cons__prop">Hold cash where redemptions arrive, by the hour of the week, and keep the rest in the fund.</p>
+                      
                       <p class="cons__mono">Requires · Reserve committee approval · One new bank</p>
                       <p class="cons__mono">Changes if · A partner moves its flows</p>
                       <p class="cons__rules"><span>Backing ✓</span><span>Cash floor ✓</span><span>Bank limits ✓</span><span>Redemption times ✓</span></p>

diff --git a/src/styles/r4.css b/src/styles/r4.css
@@ -259,7 +259,7 @@
 .deck__stage { position: absolute; left: 50%; bottom: 0; transform: translateX(-50%); }
 .deck__world, .deck__still img { -webkit-mask-image: linear-gradient(to right, transparent 0, #000 7%, #000 93%, transparent 100%); mask-image: linear-gradient(to right, transparent 0, #000 7%, #000 93%, transparent 100%); }
 .deck__slice { -webkit-mask-image: linear-gradient(to top, #000 45%, rgba(0, 0, 0, 0.62) 100%); mask-image: linear-gradient(to top, #000 45%, rgba(0, 0, 0, 0.62) 100%); }
-.deck.is-still .deck__stage, .deck:not(.is-live) .deck__stage { aspect-ratio: 2400 / 1060; height: 100%; }
+.deck.is-still .deck__stage, .deck:not(.is-live) .deck__stage { aspect-ratio: 2400 / 980; height: 100%; }
 @media (max-width: 759px) {
   .hero .hero__model.deck { flex: none; height: auto; aspect-ratio: 1200 / 1000; }
   .deck.is-still .deck__stage, .deck:not(.is-live) .deck__stage { aspect-ratio: 1200 / 1000; width: 100%; height: auto; }
@@ -267,3 +267,41 @@
 @media (max-width: 759px) {
   .hero .hero__lockup { display: none; }
 }
+
+/* --- v2.1: one orange bar, on the machine; hairlines elsewhere ------------------------ */
+
+.win:not(.win--cons) > .win__bar {
+  height: 34px;
+  background: none;
+  border-bottom: 1px solid var(--hair);
+  box-shadow: inset 0 1px 0 rgba(23, 20, 16, 0.55);
+}
+.win:not(.win--cons) > .win__bar .bar__squares i { background: var(--amber); }
+.win:not(.win--cons) > .win__bar .win__lamps { display: none; }
+.win:not(.win--cons) > .win__br { display: none; }
+.win:not(.win--cons) { border-color: rgba(23, 20, 16, 0.16); }
+
+/* Chips sit with their headlines: centred over centred heads, left over left. */
+#mission > .wrap > .chip, #start > .wrap > .chip, #domains > .wrap > .chip { justify-self: center; }
+.win--feature { max-width: none; }
+.nw-ghost { fill: none; stroke: rgba(23, 20, 16, 0.4); stroke-width: 1; stroke-dasharray: 2 3; opacity: 0; transition: opacity 0.6s ease 0.3s; }
+[data-stage='discovery'] .nw-ghost { opacity: 1; }
+[data-stage='discovery'] [data-n='fund'] .nw-c { r: 64px; fill: #fff3df; stroke: #f0900a; stroke-width: 1.5; }
+[data-stage='discovery'] [data-n='b7'] .nw-c, [data-stage='discovery'] [data-n='b8'] .nw-c { r: 3px; }
+[data-stage='discovery'] [data-n='b1'] .nw-c { r: 17px; }
+[data-stage='discovery'] [data-n='b9'] .nw-c { r: 10px; }
+[data-stage='discovery'] [data-e='b7'], [data-stage='discovery'] [data-e='b8'] { opacity: 0.25; }
+[data-stage='discovery'] .nw-e--new { opacity: 1; stroke-width: 2.6; stroke: #f0900a; }
+[data-stage='discovery'] .nw-e--rt:not(.nw-e--new) { opacity: 0.5; }
+.cons__rail .cons__nums { display: grid; gap: 1.5rem; margin-top: 2rem; }
+.cons__rail .cons__prop { margin-top: 1.75rem; padding-top: 1.25rem; border-top: 1px solid var(--amber); font-family: var(--serif); font-size: clamp(1.375rem, 1.9vw, 1.625rem); line-height: 1.2; color: var(--ink); }
+.cons--net .cons__found .cons__mono:first-child { margin-top: 0; }
+@media (min-width: 700px) {
+  .dom { grid-auto-rows: auto; row-gap: 2.5rem; }
+  .dom__cell { grid-row: span 4; grid-template-rows: subgrid; row-gap: 0; }
+}
+.dom__qs { align-self: start; }
+.band:last-of-type > .wrap { padding-bottom: 80px; }
+@media (max-width: 759px) { .band:last-of-type > .wrap { padding-bottom: 56px; } }
+[data-n='fund'] .nw-l { transition: transform 0.9s cubic-bezier(0.2, 0.7, 0.2, 1); } [data-stage='discovery'] [data-n='fund'] .nw-l { transform: translateY(-22px); }
+.deck__slice { -webkit-mask-image: none; mask-image: none; }

diff --git a/src/visuals/deck.ts b/src/visuals/deck.ts
@@ -29,7 +29,7 @@ type P = [number, number, number];
 type View = { w: number; h: number; paths: Record<string, P[][]> };
 const DATA = deck as unknown as Record<'wide' | 'narrow', View>;
 const N = 8;
-const LIT = 2;
+const LIT = 3;
 
 const ease = (t: number): number => (t <= 0 ? 0 : t >= 1 ? 1 : 1 - (1 - t) ** 3);
 const span = (t: number, a: number, b: number): number => Math.max(0, Math.min(1, (t - a) / (b - a)));
@@ -122,7 +122,7 @@ export function initDeck(host: HTMLElement): void {
     const ar = v.w / v.h;
     let w = r.width;
     let h = w / ar;
-    const room = r.height * (narrowQ.matches ? 1.0 : 1.66);
+    const room = r.height * (narrowQ.matches ? 1.0 : 1.15);
     if (h > room && room > 40) {
       h = room;
       w = h * ar;

diff --git a/scripts/hero/deck.py b/scripts/hero/deck.py
@@ -178,16 +178,17 @@ FOUND = [(-4.1, -2.6), (-0.2, -2.6), (0.4, -2.4)]
 
 # --- the futures: eight frosted slices ---------------------------------------------------------
 TEX_W, TEX_H = 2048, 820
-SL_W, SL_H = 11.0, 5.2
+SL_W, SL_H = 10.0, 5.0
 def silhouette(path, variant, lit=False):
     """The world's profile, etched: thin lines, front elevation, in one state."""
     im = Image.new('RGBA', (TEX_W, TEX_H), (0, 0, 0, 0))
     d = ImageDraw.Draw(im)
-    LA = 255 if lit else 150
+    LA = 235
     X = lambda x: int((x * 0.68 - (-SL_W / 2)) / SL_W * TEX_W)
     Z = lambda z: int(TEX_H - (z + 0.5) / SL_H * TEX_H)
-    ink = (255, 255, 255, LA)
-    soft = (255, 255, 255, LA // 2)
+    tone = (196, 104, 18) if lit else (168, 162, 152)
+    ink = (*tone, LA)
+    soft = (*tone, LA // 2)
     w = 7
     ground = Z(0)
     # The slice's own edge, etched: it reads as a card, not a haze.
@@ -233,7 +234,7 @@ def slice_material(name, tex, lit=False):
     nt = m.node_tree
     nodes, links = nt.nodes, nt.links
     bsdf = nodes['Principled BSDF']
-    bsdf.inputs['Base Color'].default_value = (*lin('#f6b45c' if lit else '#ffffff'), 1)
+    bsdf.inputs['Base Color'].default_value = (*lin('#f39a2a' if lit else '#f7f6f3'), 1)
     bsdf.inputs['Roughness'].default_value = 0.35
     img = nodes.new('ShaderNodeTexImage')
     img.image = bpy.data.images.load(tex)
@@ -245,11 +246,11 @@ def slice_material(name, tex, lit=False):
     ramp = nodes.new('ShaderNodeMapRange')
     links.new(sep.outputs['Y'], ramp.inputs['Value'])
     ramp.inputs['To Min'].default_value = 1.0
-    ramp.inputs['To Max'].default_value = 0.35
+    ramp.inputs['To Max'].default_value = 0.7
     body = nodes.new('ShaderNodeMath')
     body.operation = 'MULTIPLY'
     links.new(ramp.outputs['Result'], body.inputs[0])
-    body.inputs[1].default_value = 0.42 if lit else 0.1
+    body.inputs[1].default_value = 0.92 if lit else 0.3
     alpha = nodes.new('ShaderNodeMath')
     alpha.operation = 'MAXIMUM'
     links.new(body.outputs['Value'], alpha.inputs[0])
@@ -258,14 +259,15 @@ def slice_material(name, tex, lit=False):
     em = nodes.new('ShaderNodeMath')
     em.operation = 'MULTIPLY'
     links.new(ramp.outputs['Result'], em.inputs[0])
-    em.inputs[1].default_value = 1.15 if lit else 0.12
+    em.inputs[1].default_value = 0.85 if lit else 0.06
     links.new(em.outputs['Value'], bsdf.inputs['Emission Strength'])
     bsdf.inputs['Emission Color'].default_value = (*lin('#ef8a10' if lit else '#fffaf0'), 1)
     return m
 
 N = 8
-LIT = 2
+LIT = 3
 slices = []
+edges_of = {}
 for k in range(N):
     tex = os.path.join(OUT, f'tex{k}.png')
     silhouette(tex, k if k != LIT else 0, lit=(k == LIT))
@@ -279,12 +281,29 @@ for k in range(N):
     o.location = (0, 0, SL_H / 2)
     bpy.ops.object.transform_apply(location=True)
     # Then fan it from a pivot at its foot, receding in depth.
-    a = math.radians((k - (N - 1) / 2) * 7.6)
+    a = math.radians((k - (N - 1) / 2) * 8.2)
     o.rotation_euler = (0, a, 0)
-    o.location = (0.6, PY1 + 1.0 + k * 0.55, -PT)
+    o.location = (0.6, PY1 + 0.7 + k * 0.5, -PT)
     o.data.materials.append(slice_material(f'slice{k}', tex, lit=(k == LIT)))
     o.visible_shadow = False
+    em_edge = bpy.data.materials.new(f'edge{k}')
+    em_edge.use_nodes = True
+    eb = em_edge.node_tree.nodes['Principled BSDF']
+    eb.inputs['Base Color'].default_value = (*lin('#ffb547' if k == LIT else '#ffffff'), 1)
+    eb.inputs['Emission Color'].default_value = (*lin('#f08a10' if k == LIT else '#fff6e6'), 1)
+    eb.inputs['Emission Strength'].default_value = 1.6 if k == LIT else 0.9
+    edge = o.copy()
+    edge.data = o.data.copy()
+    bpy.context.collection.objects.link(edge)
+    wf = edge.modifiers.new('wf', 'WIREFRAME')
+    wf.thickness = 0.045
+    edge.data.materials.clear()
+    edge.data.materials.append(em_edge)
+    edge.visible_shadow = False
+    edge.parent = None
+    o['edge'] = edge.name
     slices.append(o)
+    edges_of[o.name] = edge
 
 # --- light: one area light from the upper left, a soft sky, the paper ground -------------------
 world = bpy.data.worlds.new('world')
@@ -319,8 +338,8 @@ def camera(az, el, target, scale):
     return cam
 
 VIEWS = {
-    'wide': (camera(math.radians(10), math.radians(28), (0.0, 2.4, 2.0), 23.5), 2400, 1060),
-    'narrow': (camera(math.radians(10), math.radians(28), (-0.6, 2.4, 2.2), 15.0), 1200, 1000),
+    'wide': (camera(math.radians(10), math.radians(26), (0.0, 2.0, 1.75), 22.5), 2400, 980),
+    'narrow': (camera(math.radians(10), math.radians(26), (-0.4, 2.0, 1.9), 14.2), 1200, 1000),
 }
 
 def poly(points, z=0.06, step=0.1):
@@ -363,6 +382,8 @@ def render(path):
 def show(objs_on):
     for o in world_set + slices:
         o.hide_render = o not in objs_on
+    for o in slices:
+        edges_of[o.name].hide_render = o not in objs_on
     ground.hide_render = False
 
 data = {}

diff --git a/scripts/hero/small.py b/scripts/hero/small.py
@@ -88,7 +88,7 @@ def mats():
     M['road'] = mat('road', '#e9e4da', 0.7)
     M['panel'] = mat('panel', '#c3c0ba', 0.25)
     M['steel'] = mat('steel', '#d8d4cc', 0.4)
-    M['warm'] = mat('warm', '#f2a24a', 0.4, '#e8810c', 0.9)
+    M['warm'] = mat('warm', '#f2a24a', 0.4, '#e8810c', 1.1)
     M['frost'] = frost(False, 0.05)
     M['frost_hi'] = frost(False, 1.1)
     M['frost_lit'] = frost(True)
@@ -104,6 +104,28 @@ def frost(lit, glow=0.12):
     b.inputs['Emission Color'].default_value = (*lin('#ef8a10' if lit else '#fffaf0'), 1)
     b.inputs['Emission Strength'].default_value = 1.2 if lit else glow
     return m
+
+
+def frost_tex(tex, glow, alpha):
+    m = bpy.data.materials.new('frost_tex')
+    m.use_nodes = True
+    nt = m.node_tree
+    b = nt.nodes['Principled BSDF']
+    b.inputs['Base Color'].default_value = (*lin('#f7f6f3'), 1)
+    b.inputs['Roughness'].default_value = 0.35
+    img = nt.nodes.new('ShaderNodeTexImage')
+    img.image = bpy.data.images.load(tex)
+    mx = nt.nodes.new('ShaderNodeMath'); mx.operation = 'MAXIMUM'; mx.inputs[1].default_value = alpha
+    nt.links.new(img.outputs['Alpha'], mx.inputs[0])
+    nt.links.new(mx.outputs['Value'], b.inputs['Alpha'])
+    mix = nt.nodes.new('ShaderNodeMixRGB'); mix.blend_type = 'MIX'
+    mix.inputs['Color1'].default_value = (*lin('#ffffff'), 1)
+    nt.links.new(img.outputs['Alpha'], mix.inputs['Fac'])
+    nt.links.new(img.outputs['Color'], mix.inputs['Color2'])
+    nt.links.new(mix.outputs['Color'], b.inputs['Emission Color'])
+    b.inputs['Emission Strength'].default_value = glow
+    return m
+TEX = '/tmp/claude-0/-home-user-kaldun-web/fd930541-fe09-5744-8e47-e77ab427b4b2/scratchpad/blender/tex-compare.png'
 
 def box(x0, y0, z0, w, d, h, m='card', bevel=0.02, rot=None):
     bpy.ops.mesh.primitive_cube_add(size=1, location=(x0 + w / 2, y0 + d / 2, z0 + h / 2))
@@ -231,7 +253,7 @@ def v_res():
     for (x, y) in ((1.2, -0.9), (2.0, -0.9), (1.2, 0.1), (2.0, 0.1), (1.6, 1.0)):
         box(x, y, 0, 0.55, 0.55, 0.42)
         box(x + 0.05, y + 0.05, 0.42, 0.45, 0.45, 0.05, 'road', bevel=0)
-    box(-0.5, -0.12, 0.01, 1.7, 0.16, 0.04, 'warm', bevel=0.005)   # the route between them
+    box(-0.5, -0.14, 0.0, 1.7, 0.28, 0.16, 'warm', bevel=0.02)   # the route between them, raised and lit
 def v_cred():
     plate(6.0, 4.5)
     tower(-2.6, -0.4, 1.1, 1.1, 3.2)
@@ -294,8 +316,10 @@ def f_simulate():
     for k in range(6):
         slice_card(0.2, 2.6 + k * 0.35, 5.2, 2.8, 'frost', math.radians((k - 2.5) * 7.5))
 def f_compare():
-    slice_card(-1.7, 0.0, 3.0, 3.6, 'frost')
-    slice_card(1.7, 0.0, 3.0, 3.6, 'frost_hi')
+    M['ft_lo'] = frost_tex(TEX, 0.18, 0.1)
+    M['ft_hi'] = frost_tex(TEX, 1.05, 0.34)
+    slice_card(-1.75, 0.0, 3.3, 3.0, 'ft_lo', math.radians(-3))
+    slice_card(1.75, -0.3, 3.3, 3.0, 'ft_hi', math.radians(3))
 def f_decide():
     box(-1.4, -0.9, 0, 2.8, 1.8, 0.5, 'card', bevel=0.04)
     slice_card(0.0, 0.0, 2.6, 3.4, 'frost_lit')
@@ -308,7 +332,7 @@ def f_decide():
             o.location.z = 0.5
 
 FILM = {'f-evidence': (f_evidence, (0.25, 0, 0.5), 7.4), 'f-model': (f_model, (0.1, 0.2, 0.8), 12.0), 'f-simulate': (f_simulate, (0.1, 1.2, 1.8), 13.0),
-        'f-compare': (f_compare, (0, 0, 1.8), 8.0), 'f-decide': (f_decide, (0, 0, 2.0), 6.4)}
+        'f-compare': (f_compare, (0, 0, 1.5), 9.3), 'f-decide': (f_decide, (0, 0, 2.0), 6.4)}
 
 if ONLY in ('v', 'all'):
     for name, build in VIGNETTES.items():
